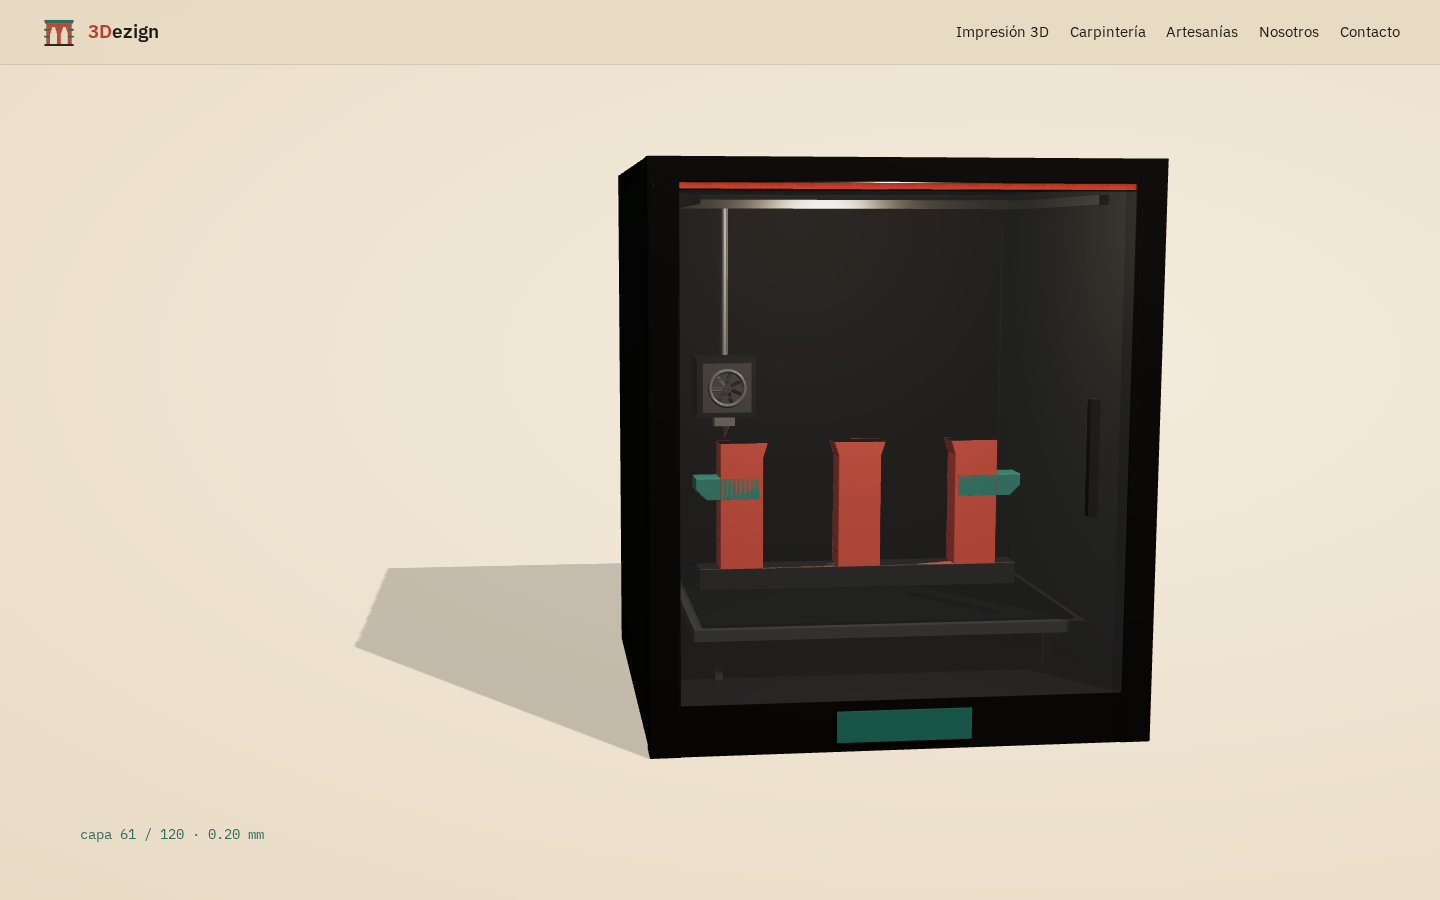
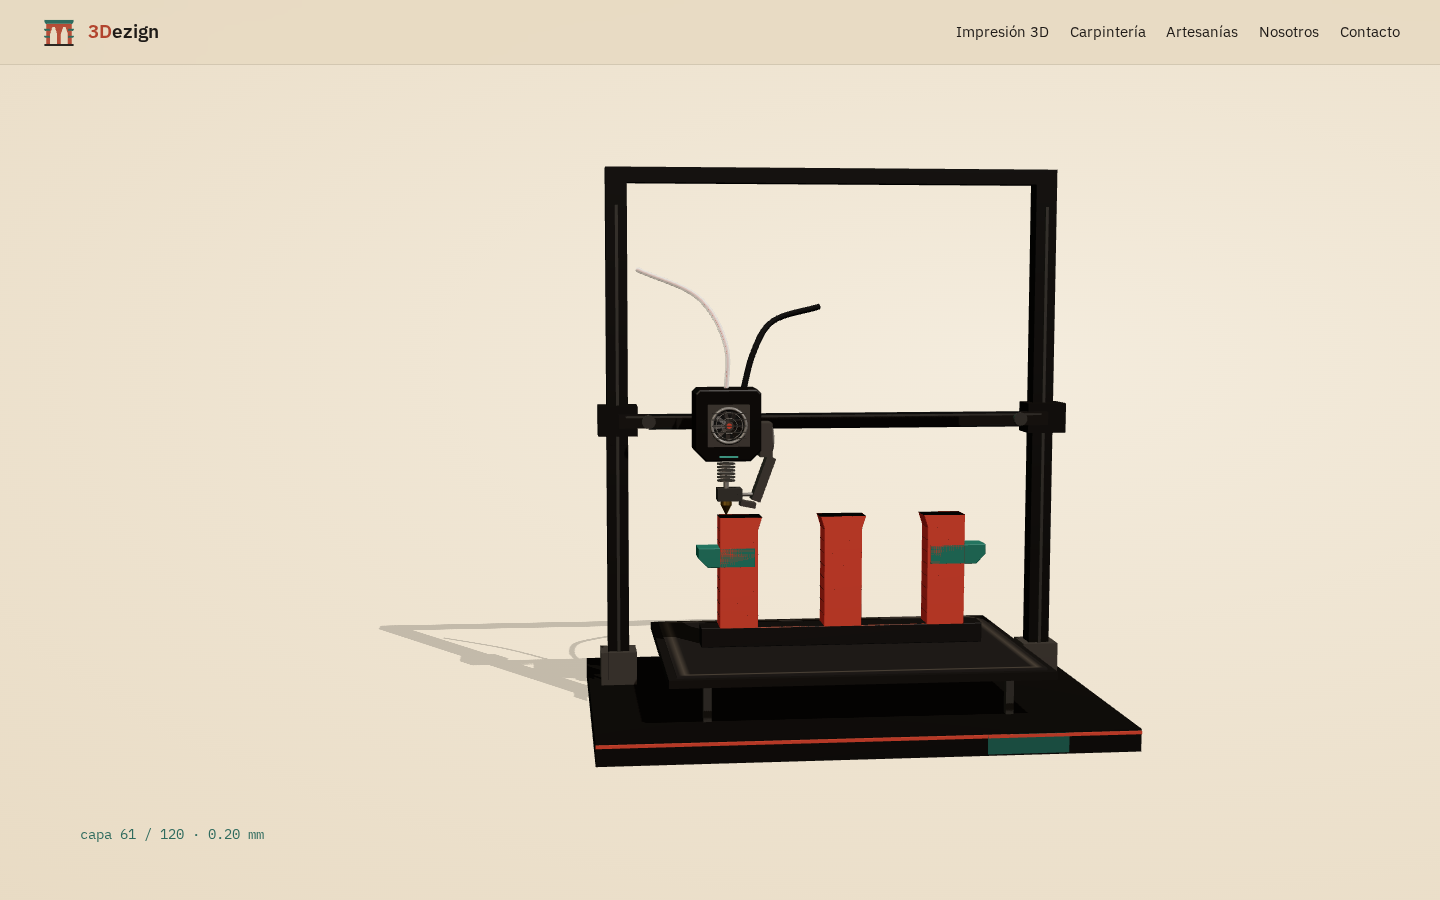
Impresora abierta con pórtico móvil y cabezal detallado

Changed region(s): [[0.25, 0.1556, 0.8125, 0.8711]]

diff --git a/src/scene.js b/src/scene.js
@@ -15,58 +15,96 @@ export function createScene(canvas, { reduced }) {
   const camera = new THREE.PerspectiveCamera(32, 1, 0.1, 100);
 
   scene.add(new THREE.HemisphereLight(0xfff5e6, 0x3a2e28, 1.4));
-  const key = new THREE.DirectionalLight(0xffffff, 2.2); key.position.set(4, 7, 6); key.castShadow = true; key.shadow.mapSize.set(1024, 1024); scene.add(key);
+  const key = new THREE.DirectionalLight(0xffffff, 2.4); key.position.set(4, 8, 6); key.castShadow = true; key.shadow.mapSize.set(2048, 2048); Object.assign(key.shadow.camera, { left: -5, right: 5, top: 5, bottom: -5 }); key.shadow.bias = -0.0005; scene.add(key);
+  const fill = new THREE.DirectionalLight(0xfff0e0, 0.8); fill.position.set(-4, 3, 5); scene.add(fill);
   const rim = new THREE.DirectionalLight(new THREE.Color(C.jade), 1.2); rim.position.set(-5, 3, -4); scene.add(rim);
 
-  // --- Impresora estilo K1C (caja cerrada, marco oscuro) ---
+  // --- Impresora abierta: base, cama, dos postes y pórtico X que sube con la capa ---
   const printer = new THREE.Group(); scene.add(printer);
-  const W = 2.6, H = 3.0, D = 2.6, t = 0.12;
-  const dark = new THREE.MeshStandardMaterial({ color: C.carbon, roughness: 0.55, metalness: 0.3 });
-  const panel = new THREE.MeshStandardMaterial({ color: 0x2a2522, roughness: 0.7, metalness: 0.15 });
-  const metal = new THREE.MeshStandardMaterial({ color: 0x9a9590, roughness: 0.3, metalness: 0.9 });
-  const box = (w, h, d, m, x, y, z) => { const o = new THREE.Mesh(new THREE.BoxGeometry(w, h, d), m); o.position.set(x, y, z); o.castShadow = o.receiveShadow = true; printer.add(o); return o; };
-  box(W, t * 2.2, D, dark, 0, t * 1.1, 0);           // base
-  box(W, t, D, dark, 0, H - t / 2, 0);                // techo
-  box(t, H, D, panel, -W / 2 + t / 2, H / 2, 0);      // lados
-  box(t, H, D, panel, W / 2 - t / 2, H / 2, 0);
-  box(W, H, t, panel, 0, H / 2, -D / 2 + t / 2);      // fondo
-  for (const sx of [-1, 1]) box(t * 1.3, H, t * 1.3, dark, sx * (W / 2 - t * 0.6), H / 2, D / 2 - t * 0.6); // postes frontales
-  // franja / pantalla
-  box(0.7, 0.16, 0.02, new THREE.MeshStandardMaterial({ color: 0x111111, emissive: new THREE.Color(C.jade), emissiveIntensity: 0.6 }), 0, t * 1.1, D / 2 + 0.01);
-  box(W * 0.98, 0.03, 0.02, new THREE.MeshStandardMaterial({ color: C.terracota, emissive: C.terracota, emissiveIntensity: 0.4 }), 0, H - t - 0.02, D / 2 - 0.02);
-  // puerta de vidrio
-  const glass = new THREE.Mesh(new THREE.BoxGeometry(W - t * 2.4, H - t * 3.4, 0.03),
-    new THREE.MeshPhysicalMaterial({ color: 0xdfe8e4, transparent: true, opacity: 0.14, roughness: 0.05, metalness: 0, depthWrite: false }));
-  glass.position.set(0, H / 2 + 0.04, D / 2 - 0.02); printer.add(glass);
-  box(0.05, 0.6, 0.06, metal, W / 2 - 0.35, H / 2, D / 2 + 0.02); // manija
-  // luz interior
-  const inner = new THREE.PointLight(0xfff1dc, 2.5, 4, 1.5); inner.position.set(0, H - 0.3, 0.9); printer.add(inner);
+  const dark = new THREE.MeshStandardMaterial({ color: C.carbon, roughness: 0.55, metalness: 0.25 });
+  const alu = new THREE.MeshStandardMaterial({ color: 0x3a3532, roughness: 0.45, metalness: 0.6 });
+  const metal = new THREE.MeshStandardMaterial({ color: 0xa8a39d, roughness: 0.3, metalness: 0.9 });
+  const brass = new THREE.MeshStandardMaterial({ color: 0xc9a24a, metalness: 0.9, roughness: 0.25 });
+  const grey = new THREE.MeshStandardMaterial({ color: 0x55504c, roughness: 0.5, metalness: 0.4 });
+  const blackPl = new THREE.MeshStandardMaterial({ color: 0x141211, roughness: 0.7 });
+  const box = (w, h, d, m, x, y, z, parent = printer) => { const o = new THREE.Mesh(new THREE.BoxGeometry(w, h, d), m); o.position.set(x, y, z); o.castShadow = o.receiveShadow = true; parent.add(o); return o; };
+  const cyl = (r, h, m, parent, seg = 20) => { const o = new THREE.Mesh(new THREE.CylinderGeometry(r, r, h, seg), m); o.castShadow = true; parent.add(o); return o; };
+  const PX = 1.45, PZ = -0.42, PH = 3.35; // postes
+  box(3.3, 0.14, 2.3, dark, 0, 0.07, 0);                       // base delgada
+  box(3.3, 0.02, 0.02, new THREE.MeshStandardMaterial({ color: C.terracota }), 0, 0.12, 1.151); // filo terracota
+  box(0.5, 0.12, 0.01, new THREE.MeshStandardMaterial({ color: 0x111111, emissive: new THREE.Color(C.jade), emissiveIntensity: 0.5 }), 0.95, 0.07, 1.151); // pantalla
+  const bedY = 0.42;
+  for (const sx of [-1, 1]) for (const sz of [-1, 1]) box(0.05, bedY - 0.14, 0.05, metal, sx * 0.95, (bedY + 0.14) / 2, sz * 0.7);
+  box(2.4, 0.05, 1.8, alu, 0, bedY, 0);                         // placa
+  // hoja PEI con textura de puntos
+  const tc = document.createElement('canvas'); tc.width = tc.height = 256; const tx = tc.getContext('2d');
+  tx.fillStyle = '#2a2624'; tx.fillRect(0, 0, 256, 256); tx.fillStyle = 'rgba(231,217,193,.10)';
+  for (let y = 4; y < 256; y += 8) for (let x = 4; x < 256; x += 8) { tx.beginPath(); tx.arc(x, y, 1.4, 0, 7); tx.fill(); }
+  tx.strokeStyle = 'rgba(231,217,193,.25)'; tx.lineWidth = 3; tx.strokeRect(6, 6, 244, 244);
+  const tex = new THREE.CanvasTexture(tc); tex.colorSpace = THREE.SRGBColorSpace;
+  box(2.3, 0.012, 1.7, new THREE.MeshStandardMaterial({ map: tex, roughness: 0.6, metalness: 0.2 }), 0, bedY + 0.031, 0);
+  for (const sx of [-1, 1]) {
+    box(0.14, PH, 0.14, dark, sx * PX, 0.14 + PH / 2, PZ);           // poste
+    box(0.02, PH - 0.3, 0.02, metal, sx * PX, 0.14 + PH / 2, PZ + 0.08); // guía lineal
+    const lead = cyl(0.018, PH - 0.4, metal, printer, 10); lead.position.set(sx * PX, 0.14 + PH / 2, PZ - 0.1);
+    box(0.24, 0.22, 0.24, grey, sx * PX, 0.25, PZ);                  // motor Z
+  }
+  box(2 * PX + 0.14, 0.1, 0.14, dark, 0, 0.14 + PH + 0.05, PZ);     // travesaño superior
+  // pórtico móvil
+  const gantry = new THREE.Group(); printer.add(gantry);
+  box(2 * PX, 0.09, 0.07, alu, 0, 0, PZ + 0.16, gantry);           // riel X
+  box(2 * PX - 0.1, 0.012, 0.012, metal, 0, 0.03, PZ + 0.2, gantry); // guía del riel
+  for (const sx of [-1, 1]) { box(0.26, 0.2, 0.22, dark, sx * PX, 0, PZ + 0.06, gantry); // carros Z
+    const pul = cyl(0.045, 0.04, metal, gantry); pul.rotation.x = Math.PI / 2; pul.position.set(sx * (PX - 0.2), 0, PZ + 0.215); }
+  const beltM = new THREE.MeshStandardMaterial({ color: 0x111111, roughness: 0.9 });
+  box(2 * PX - 0.4, 0.012, 0.012, beltM, 0, 0.045, PZ + 0.215, gantry);
+  box(2 * PX - 0.4, 0.012, 0.012, beltM, 0, -0.045, PZ + 0.215, gantry);
 
-  // cama
-  const bedY = 0.55;
-  box(W - 0.5, 0.06, D - 0.6, metal, 0, bedY, 0);
-  box(W - 0.6, 0.015, D - 0.7, new THREE.MeshStandardMaterial({ color: 0x1b1b1b, roughness: 0.4, metalness: 0.4 }), 0, bedY + 0.038, 0);
-  for (const sx of [-1, 1]) for (const sz of [-1, 1]) box(0.04, bedY - 0.25, 0.04, metal, sx * 0.9, (bedY + 0.25) / 2, sz * 0.8);
-
-  // gantry core-XY: barras Y laterales y barra X móvil, cabezal
-  const railY = H - 0.2;
-  for (const sx of [-1, 1]) box(0.05, 0.05, D - 0.4, metal, sx * (W / 2 - 0.25), railY, 0);
-  const xbar = box(W - 0.5, 0.05, 0.05, metal, 0, railY, 0);
+  // --- Cabezal detallado (origen = punta de boquilla) ---
   const head = new THREE.Group(); printer.add(head);
-  const grey = new THREE.MeshStandardMaterial({ color: 0x4a4542, roughness: 0.5, metalness: 0.4 });
-  const hb = new THREE.Mesh(new THREE.BoxGeometry(0.34, 0.34, 0.3), new THREE.MeshStandardMaterial({ color: C.carbon, roughness: 0.45, metalness: 0.2 })); hb.castShadow = true; head.add(hb);
-  const shroud = new THREE.Mesh(new THREE.BoxGeometry(0.28, 0.28, 0.03), grey); shroud.position.z = 0.165; head.add(shroud);
-  const ring = new THREE.Mesh(new THREE.TorusGeometry(0.1, 0.012, 8, 32), new THREE.MeshStandardMaterial({ color: 0x7a7570, metalness: 0.7, roughness: 0.35 })); ring.position.z = 0.185; head.add(ring);
-  const blades = new THREE.Group(); blades.position.z = 0.18; head.add(blades);
-  const bladeM = new THREE.MeshStandardMaterial({ color: 0x2b2725, roughness: 0.6 });
-  for (let i = 0; i < 7; i++) { const bl = new THREE.Mesh(new THREE.BoxGeometry(0.085, 0.03, 0.006), bladeM); bl.position.x = 0.045; const piv = new THREE.Group(); piv.rotation.z = i * Math.PI * 2 / 7; bl.rotation.x = 0.4; piv.add(bl); blades.add(piv); }
-  for (const gy of [-0.05, 0, 0.05]) { const bar = new THREE.Mesh(new THREE.BoxGeometry(0.2, 0.008, 0.008), grey); bar.position.set(0, gy, 0.19); head.add(bar); }
-  const hub = new THREE.Mesh(new THREE.CylinderGeometry(0.025, 0.025, 0.02, 16), grey); hub.rotation.x = Math.PI / 2; hub.position.z = 0.19; head.add(hub);
-  const heater = new THREE.Mesh(new THREE.BoxGeometry(0.12, 0.06, 0.12), new THREE.MeshStandardMaterial({ color: 0xb8b2aa, metalness: 0.8, roughness: 0.3 })); heater.position.y = -0.2; head.add(heater);
-  const noz = new THREE.Mesh(new THREE.ConeGeometry(0.04, 0.08, 16), new THREE.MeshStandardMaterial({ color: 0xc9a24a, metalness: 0.9, roughness: 0.25 })); noz.rotation.x = Math.PI; noz.position.y = -0.27; head.add(noz);
-  // tubo/varilla vertical que conecta cabezal con la barra
-  const stem = new THREE.Mesh(new THREE.CylinderGeometry(0.025, 0.025, 1, 8), metal); head.add(stem);
-
+  const noz = new THREE.Mesh(new THREE.ConeGeometry(0.035, 0.07, 16), brass); noz.rotation.x = Math.PI; noz.position.y = 0.035; head.add(noz);
+  const nozHex = cyl(0.04, 0.03, brass, head, 6); nozHex.position.y = 0.085;
+  box(0.16, 0.08, 0.13, metal, 0.02, 0.14, 0, head);                // bloque calentador
+  const cart = cyl(0.012, 0.1, metal, head, 8); cart.rotation.z = Math.PI / 2; cart.position.set(0.12, 0.14, 0.03);
+  const brk = cyl(0.018, 0.06, metal, head, 10); brk.position.y = 0.2;  // heatbreak
+  for (let i = 0; i < 6; i++) { const fin = cyl(0.06, 0.008, metal, head, 24); fin.position.y = 0.23 + i * 0.022; } // disipador
+  // carcasa con chaflanes
+  const hs = new THREE.Shape(); const w = 0.2, hh = 0.22, c = 0.06;
+  hs.moveTo(-w + c, -hh); hs.lineTo(w - c, -hh); hs.lineTo(w, -hh + c); hs.lineTo(w, hh - 0.02); hs.lineTo(w - 0.02, hh); hs.lineTo(-w + 0.02, hh); hs.lineTo(-w, hh - 0.02); hs.lineTo(-w, -hh + c); hs.closePath();
+  const hg = new THREE.ExtrudeGeometry(hs, { depth: 0.28, bevelEnabled: true, bevelThickness: 0.015, bevelSize: 0.012, bevelSegments: 2 }); hg.translate(0, 0, -0.14);
+  const housing = new THREE.Mesh(hg, new THREE.MeshStandardMaterial({ color: C.carbon, roughness: 0.42, metalness: 0.2 })); housing.position.y = 0.6; housing.castShadow = true; head.add(housing);
+  // ventilador frontal
+  const ff = new THREE.Group(); ff.position.set(0, 0.6, 0.16); head.add(ff);
+  const fr = new THREE.Mesh(new THREE.BoxGeometry(0.27, 0.27, 0.02), grey); ff.add(fr);
+  const ring = new THREE.Mesh(new THREE.TorusGeometry(0.11, 0.012, 8, 40), metal); ring.position.z = 0.012; ff.add(ring);
+  const hole = new THREE.Mesh(new THREE.CircleGeometry(0.105, 40), blackPl); hole.position.z = 0.011; ff.add(hole);
+  const blades = new THREE.Group(); blades.position.z = 0.016; ff.add(blades);
+  const bladeM = new THREE.MeshStandardMaterial({ color: 0x3b3633, roughness: 0.55, side: THREE.DoubleSide });
+  for (let i = 0; i < 9; i++) { const piv = new THREE.Group(); piv.rotation.z = i * Math.PI * 2 / 9; const bl = new THREE.Mesh(new THREE.BoxGeometry(0.075, 0.028, 0.004), bladeM); bl.position.x = 0.058; bl.rotation.x = 0.5; piv.add(bl); blades.add(piv); }
+  const hub = cyl(0.03, 0.012, grey, ff, 20); hub.rotation.x = Math.PI / 2; hub.position.z = 0.024;
+  const hubLogo = new THREE.Mesh(new THREE.CircleGeometry(0.018, 20), new THREE.MeshStandardMaterial({ color: C.terracota })); hubLogo.position.z = 0.031; ff.add(hubLogo);
+  for (let i = -2; i <= 2; i++) { const g1 = new THREE.Mesh(new THREE.BoxGeometry(0.22, 0.006, 0.006), metal); g1.position.set(0, i * 0.04, 0.034); ff.add(g1); }
+  for (const r of [0.05, 0.085]) { const gr = new THREE.Mesh(new THREE.TorusGeometry(r, 0.003, 6, 40), metal); gr.position.z = 0.034; ff.add(gr); }
+  // ventilador lateral de capa + ducto
+  const sf = new THREE.Group(); sf.position.set(0.25, 0.5, 0); head.add(sf);
+  box(0.08, 0.22, 0.22, grey, 0, 0, 0, sf);
+  const sring = new THREE.Mesh(new THREE.TorusGeometry(0.075, 0.01, 8, 32), metal); sring.rotation.y = Math.PI / 2; sring.position.x = 0.045; sf.add(sring);
+  const sblades = new THREE.Group(); sblades.position.x = 0.045; sblades.rotation.y = Math.PI / 2; sf.add(sblades);
+  for (let i = 0; i < 7; i++) { const piv = new THREE.Group(); piv.rotation.z = i * Math.PI * 2 / 7; const bl = new THREE.Mesh(new THREE.BoxGeometry(0.05, 0.022, 0.004), bladeM); bl.position.x = 0.04; bl.rotation.x = 0.5; piv.add(bl); sblades.add(piv); }
+  const duct = box(0.06, 0.3, 0.12, grey, 0.24, 0.24, 0, head); duct.rotation.z = -0.35;
+  box(0.1, 0.035, 0.1, grey, 0.14, 0.075, 0, head).rotation.z = -0.2;   // salida del ducto
+  // LED discreto (sin luz real)
+  box(0.12, 0.012, 0.005, new THREE.MeshStandardMaterial({ color: C.jade, emissive: new THREE.Color(C.jade), emissiveIntensity: 0.7 }), 0, 0.4, 0.165, head);
+  // carro sobre el riel
+  box(0.34, 0.24, 0.05, alu, 0, 0.6, -0.2, head);
+  for (const sx of [-1, 1]) for (const sy of [-1, 1]) { const wh = cyl(0.028, 0.03, blackPl, head, 16); wh.rotation.x = Math.PI / 2; wh.position.set(sx * 0.12, 0.6 + sy * 0.09, -0.235); }
+  // tubo PTFE y cable con curva
+  const ptfe = new THREE.Mesh(new THREE.TubeGeometry(new THREE.CatmullRomCurve3([new THREE.Vector3(0, 0.8, 0), new THREE.Vector3(0, 1.1, 0), new THREE.Vector3(-0.15, 1.4, -0.15), new THREE.Vector3(-0.55, 1.6, -0.45)]), 40, 0.016, 10),
+    new THREE.MeshPhysicalMaterial({ color: 0xf4f1ea, roughness: 0.25, transmission: 0.2, transparent: true, opacity: 0.9 })); ptfe.castShadow = true; head.add(ptfe);
+  const fil = new THREE.Mesh(new THREE.TubeGeometry(ptfe.geometry.parameters.path, 40, 0.007, 6), new THREE.MeshStandardMaterial({ color: C.terracota })); head.add(fil);
+  box(0.06, 0.06, 0.06, grey, 0, 0.8, 0, head); // acople
+  const cable = new THREE.Mesh(new THREE.TubeGeometry(new THREE.CatmullRomCurve3([new THREE.Vector3(0.12, 0.8, -0.1), new THREE.Vector3(0.2, 1.05, -0.2), new THREE.Vector3(0.35, 1.25, -0.4), new THREE.Vector3(0.7, 1.35, -0.6)]), 40, 0.02, 8), blackPl); cable.castShadow = true; head.add(cable);
+  const GANTRY_OFF = 0.6; // altura del riel respecto a la punta
   // --- Arco extruido del isotipo: un mesh por path con el fill del propio SVG ---
   const data = new SVGLoader().parse(svgText);
   const parts = [];
@@ -108,8 +146,8 @@ export function createScene(canvas, { reduced }) {
     const w = canvas.clientWidth, h = canvas.clientHeight; renderer.setSize(w, h, false);
     camera.aspect = w / h; const mobile = w / h < 0.9;
     camera.fov = mobile ? 42 : 30; camera.updateProjectionMatrix();
-    if (mobile) { printer.position.set(0, -0.2, 0); camera.position.set(0, 3.2, 11.5); camera.lookAt(0, 2.5, 0); }
-    else { printer.position.set(1.7, 0, 0); camera.position.set(-0.2, 2.6, 9.5); camera.lookAt(0.9, 1.4, 0); }
+    if (mobile) { printer.position.set(0, -0.2, 0); camera.position.set(0, 3.0, 14.5); camera.lookAt(0, 2.6, 0); }
+    else { printer.position.set(1.7, 0, 0); camera.position.set(-0.2, 2.8, 10.8); camera.lookAt(0.9, 1.75, 0); }
     floor.position.copy(printer.position);
   }
   window.addEventListener('resize', layout); layout();
@@ -124,14 +162,12 @@ export function createScene(canvas, { reduced }) {
     const phase = progress * 120 * Math.PI; // ~1 pasada por capa
     const u = 0.5 + 0.5 * Math.sin(phase);
     const idx = Math.min(xs.length - 1, Math.floor(u * xs.length));
-    const tx = done ? 0 : xs[idx], tz = done ? 0 : Math.cos(phase * 0.5) * 0.25;
+    const tx = done ? 0 : xs[idx];
     head.position.x += (tx - head.position.x) * Math.min(1, dt * 14);
-    head.position.z += (tz - head.position.z) * Math.min(1, dt * 14);
-    const targetY = done ? Math.min(railY - 0.25, archGroup.position.y + archH + 0.45) : archGroup.position.y + hNow + 0.31;
+    const targetY = done ? archGroup.position.y + archH + 0.35 : archGroup.position.y + hNow + 0.005;
     head.position.y += (targetY - head.position.y) * Math.min(1, dt * 12);
-    stem.scale.y = Math.max(0.01, railY - head.position.y - 0.18); stem.position.y = 0.18 + stem.scale.y / 2;
-    xbar.position.z = head.position.z;
-    if (!reduced) blades.rotation.z += dt * 18;
+    gantry.position.y = head.position.y + GANTRY_OFF;
+    if (!reduced) { blades.rotation.z += dt * 18; sblades.rotation.z += dt * (printing ? 25 : 4); }
     hot.position.set(0, archGroup.position.y + hNow, 0); hot.material.opacity = printing ? 0.35 : 0; hot.visible = false;
     // al final gira suave
     if (done && !reduced) spin += dt * 0.35; else if (!done) spin *= 0.9;
